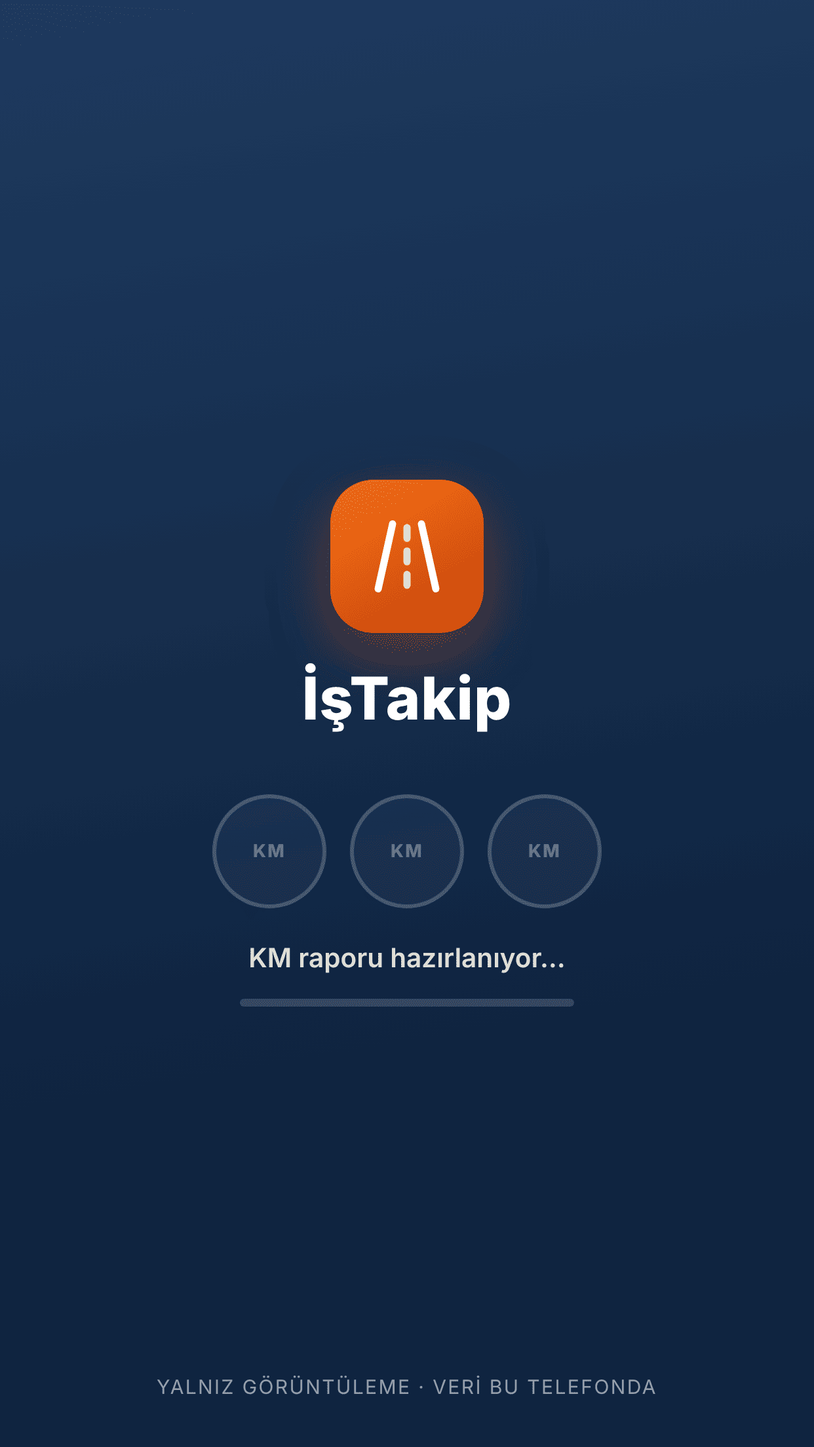
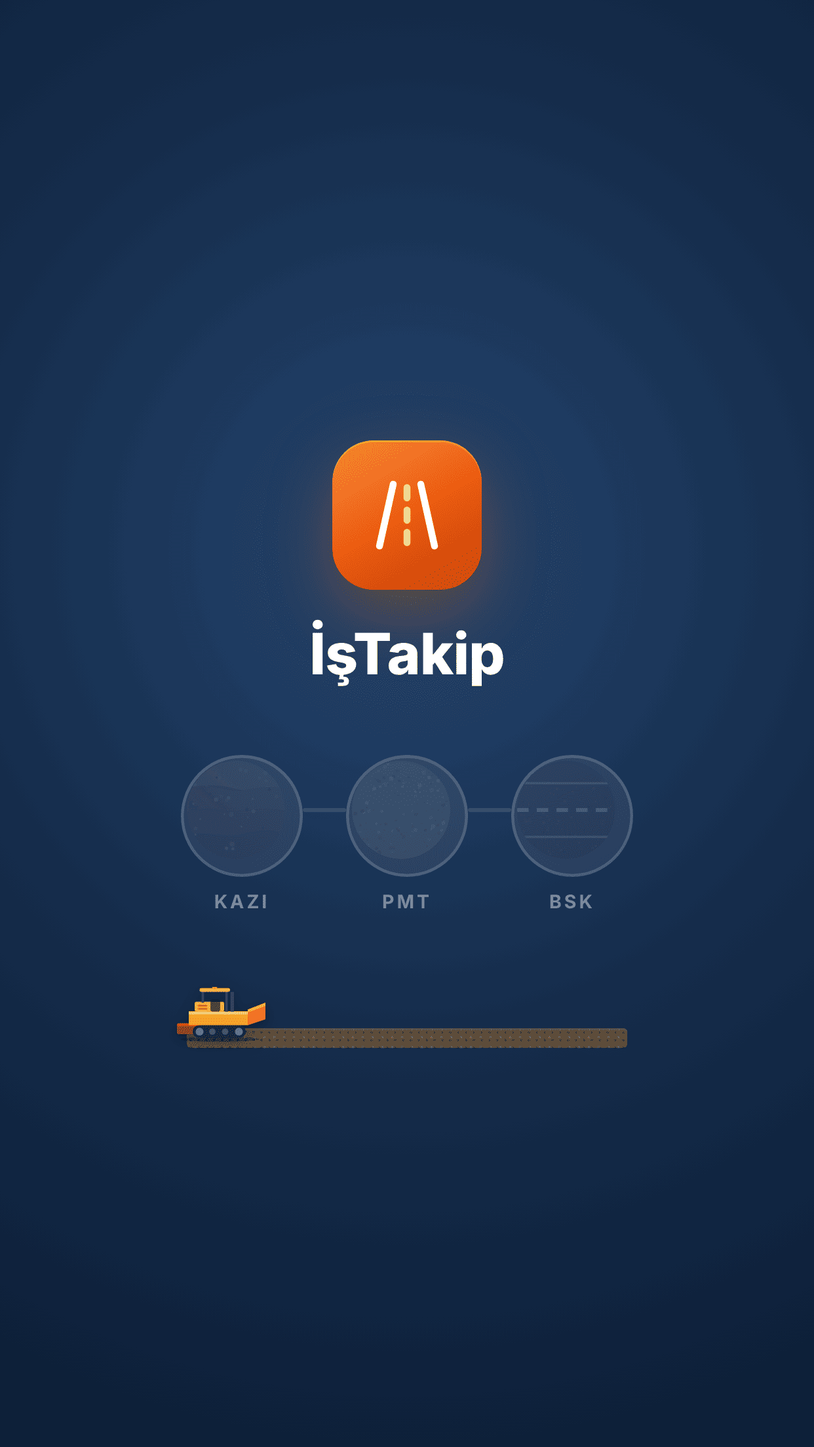
v193: açılış ekranı: finişer yolu asfaltlar, KAZI·PMT·BSK halkaları, en az 2 sn
Claude-Session: https://claude.ai/code/session_019NYnSCe667n7dsMHkU3j1n

diff --git a/index.html b/index.html
@@ -41,21 +41,44 @@
 <link rel="apple-touch-startup-image" media="(device-width: 420px) and (device-height: 912px) and (-webkit-device-pixel-ratio: 3) and (orientation: portrait)" href="acilis/ac-1260x2736.png">
 <link rel="apple-touch-startup-image" media="(device-width: 420px) and (device-height: 912px) and (-webkit-device-pixel-ratio: 3) and (orientation: landscape)" href="acilis/ac-2736x1260.png">
 <style>
-#ac9{ position:fixed; inset:0; z-index:2147483000; display:flex; flex-direction:column; align-items:center; justify-content:center; text-align:center; padding:var(--ac9t,0px) 26px var(--ac9b,0px); background:linear-gradient(170deg,#1e3a5f,#0f2440 70%); color:#fff; font-family:-apple-system,"Segoe UI",Roboto,Arial,sans-serif; transition:opacity .32s ease, transform .32s ease; }
-#ac9.git{ opacity:0; transform:scale(1.04); pointer-events:none; }
-#ac9 .l9{ width:78px; height:78px; border-radius:22px; background:linear-gradient(150deg,#f97316,#c2410c); display:flex; align-items:center; justify-content:center; box-shadow:0 10px 30px rgba(234,88,12,.4); }
-#ac9 h1{ margin:16px 0 0; font-size:30px; font-weight:800; letter-spacing:.01em; }
-#ac9 .r9{ display:flex; gap:12px; margin-top:30px; }
-#ac9 .r9 span{ width:54px; height:54px; border-radius:50%; border:2.5px solid rgba(255,255,255,.2); display:flex; align-items:center; justify-content:center; font-size:9px; font-weight:800; letter-spacing:.08em; color:rgba(255,255,255,.35); background:rgba(255,255,255,.04); }
-#ac9 .t9{ margin-top:18px; font-size:13.5px; font-weight:600; opacity:.85; }
-#ac9 .y9{ width:170px; height:4px; border-radius:2px; background:rgba(255,255,255,.16); margin-top:12px; overflow:hidden; }
-#ac9 .y9 i{ display:block; width:0; height:100%; border-radius:2px; background:#fb923c; }
-#ac9 .n9{ position:absolute; left:0; right:0; bottom:calc(24px + var(--ac9b,0px)); font-size:10px; letter-spacing:.08em; opacity:.55; }
-#ac9.oyna .r9 span{ animation:ac9p 1.1s ease-in-out infinite; } #ac9.oyna .r9 span:nth-child(2){ animation-delay:.18s; } #ac9.oyna .r9 span:nth-child(3){ animation-delay:.36s; }
-#ac9.oyna .y9 i{ animation:ac9y 1s cubic-bezier(.25,.7,.3,1) forwards; }
-#ac9.dol .y9 i{ width:100% !important; animation:none; transition:width .18s ease-out; }
-@keyframes ac9p{ 0%,100%{ border-color:rgba(255,255,255,.2); color:rgba(255,255,255,.35); } 50%{ border-color:rgba(251,146,60,.85); color:rgba(255,255,255,.8); } }
-@keyframes ac9y{ from{ width:0; } to{ width:90%; } }
+#ac9{ position:fixed; inset:0; z-index:2147483000; display:flex; flex-direction:column; align-items:center; justify-content:center; text-align:center; padding:var(--ac9t,0px) 26px var(--ac9b,0px); background:radial-gradient(120% 70% at 50% 38%,#24456f 0%,#152c4b 48%,#0c1d35 100%); color:#fff; font-family:-apple-system,"SF Pro Display","Segoe UI",Roboto,Arial,sans-serif; transition:opacity .35s ease, transform .35s ease; -webkit-font-smoothing:antialiased; }
+#ac9.git{ opacity:0; transform:scale(1.03); pointer-events:none; }
+#ac9 .l9{ width:76px; height:76px; border-radius:21px; background:linear-gradient(150deg,#fb8a3c,#ea580c 55%,#c2410c); display:flex; align-items:center; justify-content:center; box-shadow:0 12px 32px rgba(234,88,12,.35), inset 0 1px 0 rgba(255,255,255,.25); }
+#ac9 h1{ margin:15px 0 0; font-size:29px; font-weight:800; letter-spacing:-.01em; }
+#ac9 .r9{ display:flex; align-items:flex-start; margin-top:34px; }
+#ac9 .k9{ display:flex; flex-direction:column; align-items:center; gap:8px; width:62px; }
+#ac9 .h9{ position:relative; width:56px; height:56px; border-radius:50%; padding:3px; background:rgba(255,255,255,.07); box-shadow:inset 0 0 0 1.5px rgba(255,255,255,.16); transition:box-shadow .35s ease, transform .35s ease; }
+#ac9 .h9 svg{ display:block; width:50px; height:50px; border-radius:50%; opacity:.13; filter:grayscale(1); transition:opacity .45s ease, filter .45s ease; }
+#ac9 .k9 em{ font-style:normal; font-size:9.5px; font-weight:700; letter-spacing:.14em; color:rgba(255,255,255,.42); transition:color .35s; }
+#ac9 .c9{ width:22px; height:2px; margin-top:27px; border-radius:1px; background:rgba(255,255,255,.12); position:relative; overflow:hidden; }
+#ac9 .c9 i{ position:absolute; inset:0; background:#fb923c; transform:scaleX(0); transform-origin:left; }
+#ac9 .y9{ position:relative; width:224px; height:34px; margin-top:34px; }
+#ac9 .y9 .s9{ position:absolute; left:0; right:0; bottom:0; height:10px; border-radius:2px; background:#5d4d39; box-shadow:inset 0 1px 0 rgba(255,255,255,.08); overflow:hidden; }
+#ac9 .y9 .s9::before{ content:""; position:absolute; inset:0; background:radial-gradient(circle,rgba(0,0,0,.25) .6px,transparent .9px) 0 0/4px 4px, radial-gradient(circle,rgba(255,255,255,.12) .5px,transparent .8px) 2px 2px/5px 5px; }
+#ac9 .y9 .a9{ position:absolute; left:0; bottom:0; height:10px; width:0; overflow:hidden; border-radius:2px 0 0 2px; }
+#ac9 .y9 .a9 b{ position:absolute; left:0; top:0; bottom:0; width:224px; background:linear-gradient(#e2e8f0,#e2e8f0) 0 1px/100% 1px no-repeat, linear-gradient(#e2e8f0,#e2e8f0) 0 calc(100% - 1px)/100% 1px no-repeat, repeating-linear-gradient(90deg,#f8fafc 0 7px,transparent 7px 13px) 0 50%/100% 1.6px no-repeat, #24272c; }
+#ac9 .f9{ position:absolute; left:0; bottom:3px; margin-left:-5px; filter:drop-shadow(0 2px 3px rgba(0,0,0,.25)); }
+#ac9 .f9 .d9{ opacity:0; }
+#ac9.oyna .a9{ animation:ac9w 1.8s linear forwards; }
+#ac9.oyna .f9{ animation:ac9l 1.8s linear forwards; }
+#ac9.oyna .f9 .b9{ animation:ac9b .7s steps(2) infinite; }
+#ac9.oyna .f9 .d9{ animation:ac9d 1.1s ease-out infinite; }
+#ac9.oyna .k1 .h9 svg, #ac9.oyna .k2 .h9 svg, #ac9.oyna .k3 .h9 svg{ animation:ac9s .5s ease forwards; }
+#ac9.oyna .k1 .h9, #ac9.oyna .k2 .h9, #ac9.oyna .k3 .h9{ animation:ac9h .5s cubic-bezier(.2,1.4,.4,1) forwards; }
+#ac9.oyna .k1 em, #ac9.oyna .k2 em, #ac9.oyna .k3 em{ animation:ac9e .4s ease forwards; }
+#ac9.oyna .k1 *, #ac9.oyna .k1{ animation-delay:.3s !important; } #ac9.oyna .k2 *, #ac9.oyna .k2{ animation-delay:.9s !important; } #ac9.oyna .k3 *, #ac9.oyna .k3{ animation-delay:1.5s !important; }
+#ac9.oyna .c9 i{ animation:ac9c .45s ease forwards; } #ac9.oyna .c9.c1 i{ animation-delay:.5s; } #ac9.oyna .c9.c2 i{ animation-delay:1.1s; }
+#ac9.oyna .k9 *{ animation-fill-mode:forwards; }
+@keyframes ac9w{ to{ width:100%; } }
+@keyframes ac9l{ 0%{ left:0; opacity:1; } 90%{ opacity:1; } 100%{ left:100%; opacity:0; } }
+@keyframes ac9b{ 50%{ opacity:.25; } }
+@keyframes ac9d{ 0%{ opacity:.55; transform:translate(0,0) scale(.6); } 100%{ opacity:0; transform:translate(-3px,-6px) scale(1.6); } }
+@keyframes ac9s{ to{ opacity:1; filter:none; } }
+@keyframes ac9h{ 0%{ transform:scale(1); } 45%{ transform:scale(1.09); } 100%{ transform:scale(1); box-shadow:inset 0 0 0 2px #fb923c, 0 0 18px rgba(251,146,60,.35); } }
+@keyframes ac9e{ to{ color:rgba(255,255,255,.9); } }
+@keyframes ac9c{ to{ transform:scaleX(1); } }
+#ac9 .f9 .d9{ transform-box:fill-box; transform-origin:center; }
+@media (prefers-reduced-motion: reduce){ #ac9.oyna .f9 .d9, #ac9.oyna .f9 .b9{ animation:none; } }
 @supports (padding: env(safe-area-inset-top)){ #ac9{ --ac9t:env(safe-area-inset-top); --ac9b:env(safe-area-inset-bottom); } }
 </style>
 <style>
@@ -1774,7 +1797,7 @@ html.dark .csb9, html.dark .ys9{ background:rgba(239,68,68,.18); color:#fca5a5; 
 </style>
 </head>
 <body>
-<div id="ac9" class="oyna" aria-hidden="true"><div class="l9"><svg width="44" height="44" viewBox="0 0 24 24" fill="none" stroke="#fff" stroke-width="2" stroke-linecap="round"><path d="M8 3L4 21M16 3l4 18"/><path d="M12 4v3M12 10.5v3M12 17v3" stroke="#fde68a"/></svg></div><h1>İşTakip</h1><div class="r9"><span>KM</span><span>KM</span><span>KM</span></div><div class="t9">KM raporu hazırlanıyor…</div><div class="y9"><i></i></div><div class="n9">YALNIZ GÖRÜNTÜLEME · VERİ BU TELEFONDA</div></div>
+<div id="ac9" class="oyna" aria-hidden="true"><svg width="0" height="0" style="position:absolute"><defs><clipPath id="ac9c"><circle cx="30" cy="30" r="30"/></clipPath></defs></svg><div class="l9"><svg width="42" height="42" viewBox="0 0 24 24" fill="none" stroke="#fff" stroke-width="2" stroke-linecap="round"><path d="M8 3L4 21M16 3l4 18"/><path d="M12 4v3M12 10.5v3M12 17v3" stroke="#fde68a"/></svg></div><h1>İşTakip</h1><div class="r9"><div class="k9 k1"><span class="h9"><svg viewBox="0 0 60 60"><g clip-path="url(#ac9c)"><rect width="60" height="60" fill="#6e4126"/><path d="M0 0H60V17C50 15 44 20 34 18S16 13 0 17Z" fill="#9a6338"/><path d="M0 17C16 13 24 20 34 18S50 15 60 17V31C48 28 40 34 28 31S10 28 0 32Z" fill="#82502d"/><path d="M0 46C12 42 22 48 34 45S50 42 60 45V60H0Z" fill="#573219"/><path d="M0 32C10 28 18 31 28 31S48 28 60 31" stroke="#5e351c" stroke-width=".8" fill="none" opacity=".7"/><path d="M0 46C12 42 22 48 34 45S50 42 60 45" stroke="#3f2412" stroke-width=".8" fill="none" opacity=".7"/><circle cx="20.1" cy="10.4" r="1.22" fill="#b07d52"/><circle cx="48.0" cy="7.3" r="1.14" fill="#c08b5c"/><circle cx="4.1" cy="26.3" r="0.58" fill="#b07d52"/><circle cx="32.9" cy="5.3" r="1.12" fill="#c08b5c"/><circle cx="37.3" cy="34.6" r="0.57" fill="#8d6a4b"/><circle cx="4.8" cy="14.4" r="1.11" fill="#c08b5c"/><circle cx="18.2" cy="10.1" r="0.63" fill="#4a2a15"/><circle cx="33.4" cy="40.2" r="0.61" fill="#c08b5c"/><circle cx="22.9" cy="32.7" r="0.57" fill="#b07d52"/><circle cx="36.7" cy="29.8" r="1.08" fill="#4a2a15"/><circle cx="28.1" cy="53.7" r="0.90" fill="#c08b5c"/><circle cx="46.5" cy="41.1" r="0.77" fill="#4a2a15"/><circle cx="31.4" cy="51.0" r="1.30" fill="#4a2a15"/><circle cx="36.1" cy="6.1" r="1.06" fill="#c08b5c"/><circle cx="44.4" cy="10.5" r="1.04" fill="#b07d52"/><circle cx="55.9" cy="6.3" r="1.11" fill="#4a2a15"/><circle cx="21.0" cy="21.6" r="1.05" fill="#8d6a4b"/><circle cx="5.9" cy="7.2" r="0.80" fill="#b07d52"/><circle cx="5.4" cy="41.3" r="1.21" fill="#8d6a4b"/><circle cx="17.9" cy="23.6" r="1.24" fill="#b07d52"/><circle cx="54.7" cy="21.9" r="1.17" fill="#8d6a4b"/><circle cx="5.3" cy="45.0" r="0.64" fill="#c08b5c"/><circle cx="24.3" cy="53.3" r="1.05" fill="#c08b5c"/><circle cx="27.2" cy="32.8" r="1.47" fill="#8d6a4b"/><circle cx="50.4" cy="17.6" r="0.96" fill="#4a2a15"/><circle cx="40.2" cy="23.3" r="0.75" fill="#b07d52"/><circle cx="11.9" cy="15.0" r="0.76" fill="#8d6a4b"/><circle cx="48.5" cy="12.2" r="0.81" fill="#c08b5c"/><circle cx="25.5" cy="22.7" r="1.12" fill="#c08b5c"/><circle cx="40.7" cy="30.9" r="1.18" fill="#b07d52"/><circle cx="27.6" cy="50.8" r="1.55" fill="#8d6a4b"/><circle cx="24.3" cy="24.1" r="1.03" fill="#8d6a4b"/><circle cx="5.5" cy="5.8" r="0.73" fill="#c08b5c"/><circle cx="8.2" cy="35.6" r="0.61" fill="#c08b5c"/></g></svg></span><em>KAZI</em></div><span class="c9 c1"><i></i></span><div class="k9 k2"><span class="h9"><svg viewBox="0 0 60 60"><g clip-path="url(#ac9c)"><rect width="60" height="60" fill="#a68a63"/><circle cx="32.1" cy="55.1" r="0.97" fill="#8a7050"/><circle cx="51.0" cy="36.4" r="0.58" fill="#6f5a3d"/><circle cx="55.5" cy="35.7" r="0.85" fill="#8a7050"/><circle cx="49.5" cy="57.6" r="0.85" fill="#d8c4a0"/><circle cx="19.5" cy="10.1" r="1.09" fill="#6f5a3d"/><circle cx="28.8" cy="40.8" r="0.89" fill="#c4ab84"/><circle cx="55.3" cy="31.6" r="0.57" fill="#7b6547"/><circle cx="53.2" cy="44.5" r="0.70" fill="#8a7050"/><circle cx="41.0" cy="16.6" r="0.76" fill="#c4ab84"/><circle cx="21.9" cy="14.5" r="0.91" fill="#7b6547"/><circle cx="20.5" cy="14.5" r="1.14" fill="#c4ab84"/><circle cx="47.1" cy="47.8" r="1.08" fill="#c4ab84"/><circle cx="13.2" cy="29.6" r="1.07" fill="#8a7050"/><circle cx="46.2" cy="28.4" r="0.61" fill="#7b6547"/><circle cx="55.6" cy="27.0" r="1.25" fill="#6f5a3d"/><circle cx="55.5" cy="22.4" r="0.64" fill="#c4ab84"/><circle cx="28.3" cy="20.9" r="0.86" fill="#7b6547"/><circle cx="49.1" cy="28.9" r="1.01" fill="#8a7050"/><circle cx="48.7" cy="8.7" r="0.78" fill="#c4ab84"/><circle cx="28.8" cy="12.0" r="1.12" fill="#6f5a3d"/><circle cx="6.9" cy="55.0" r="1.06" fill="#d8c4a0"/><circle cx="24.5" cy="55.0" r="1.07" fill="#c4ab84"/><circle cx="57.6" cy="3.5" r="0.95" fill="#d8c4a0"/><circle cx="47.2" cy="10.2" r="1.15" fill="#d8c4a0"/><circle cx="38.8" cy="21.6" r="0.92" fill="#c4ab84"/><circle cx="3.2" cy="46.8" r="1.07" fill="#8a7050"/><circle cx="31.5" cy="54.3" r="0.82" fill="#c4ab84"/><circle cx="48.3" cy="13.8" r="0.66" fill="#6f5a3d"/><circle cx="30.1" cy="44.8" r="0.73" fill="#7b6547"/><circle cx="25.5" cy="9.3" r="1.22" fill="#6f5a3d"/><circle cx="52.3" cy="39.1" r="1.14" fill="#7b6547"/><circle cx="25.6" cy="53.4" r="0.88" fill="#7b6547"/><circle cx="10.5" cy="30.6" r="1.19" fill="#c4ab84"/><circle cx="36.1" cy="45.5" r="0.58" fill="#c4ab84"/><circle cx="28.5" cy="42.6" r="0.92" fill="#6f5a3d"/><circle cx="40.2" cy="31.7" r="0.86" fill="#8a7050"/><circle cx="51.5" cy="5.2" r="0.61" fill="#8a7050"/><circle cx="45.2" cy="30.4" r="0.93" fill="#8a7050"/><circle cx="26.8" cy="36.3" r="0.88" fill="#7b6547"/><circle cx="13.2" cy="17.5" r="0.88" fill="#d8c4a0"/><circle cx="30.4" cy="15.9" r="0.89" fill="#6f5a3d"/><circle cx="53.7" cy="52.0" r="0.62" fill="#d8c4a0"/><circle cx="9.7" cy="8.8" r="0.83" fill="#8a7050"/><circle cx="39.6" cy="26.0" r="0.63" fill="#6f5a3d"/><circle cx="45.9" cy="52.2" r="0.58" fill="#6f5a3d"/><circle cx="10.0" cy="51.4" r="1.27" fill="#c4ab84"/><circle cx="43.8" cy="7.3" r="1.20" fill="#c4ab84"/><circle cx="57.4" cy="48.6" r="0.59" fill="#d8c4a0"/><circle cx="57.7" cy="24.6" r="0.81" fill="#6f5a3d"/><circle cx="19.8" cy="42.4" r="0.47" fill="#7b6547"/><circle cx="27.7" cy="41.4" r="0.78" fill="#7b6547"/><circle cx="36.9" cy="30.7" r="0.50" fill="#c4ab84"/><circle cx="56.4" cy="7.9" r="0.68" fill="#8a7050"/><circle cx="52.7" cy="12.2" r="1.09" fill="#d8c4a0"/><circle cx="49.6" cy="39.9" r="1.25" fill="#d8c4a0"/><circle cx="10.4" cy="53.5" r="0.94" fill="#6f5a3d"/><circle cx="7.0" cy="5.2" r="1.03" fill="#d8c4a0"/><circle cx="52.1" cy="17.1" r="0.46" fill="#8a7050"/><circle cx="46.9" cy="6.7" r="1.18" fill="#8a7050"/><circle cx="16.8" cy="8.8" r="0.46" fill="#7b6547"/><circle cx="25.4" cy="53.3" r="0.98" fill="#8a7050"/><circle cx="31.5" cy="15.4" r="0.54" fill="#c4ab84"/><circle cx="16.7" cy="12.1" r="1.24" fill="#6f5a3d"/><circle cx="31.7" cy="13.5" r="0.83" fill="#c4ab84"/><circle cx="17.1" cy="47.0" r="1.30" fill="#8a7050"/><circle cx="2.9" cy="43.1" r="0.92" fill="#c4ab84"/><circle cx="30.8" cy="15.8" r="0.83" fill="#d8c4a0"/><circle cx="38.8" cy="32.6" r="1.21" fill="#7b6547"/><circle cx="19.2" cy="14.1" r="0.65" fill="#c4ab84"/><circle cx="48.6" cy="41.6" r="0.99" fill="#d8c4a0"/><circle cx="57.4" cy="57.0" r="1.16" fill="#8a7050"/><circle cx="6.0" cy="43.5" r="0.67" fill="#c4ab84"/><circle cx="5.1" cy="39.3" r="0.77" fill="#7b6547"/><circle cx="39.6" cy="17.8" r="0.66" fill="#6f5a3d"/><circle cx="4.5" cy="12.4" r="0.68" fill="#8a7050"/><circle cx="16.7" cy="55.9" r="1.28" fill="#7b6547"/><circle cx="20.1" cy="3.9" r="1.20" fill="#c4ab84"/><circle cx="22.0" cy="2.1" r="0.77" fill="#d8c4a0"/><circle cx="17.6" cy="38.7" r="0.66" fill="#8a7050"/><circle cx="7.1" cy="47.8" r="0.57" fill="#7b6547"/><circle cx="4.3" cy="3.3" r="0.71" fill="#c4ab84"/><circle cx="6.7" cy="55.6" r="1.18" fill="#c4ab84"/><circle cx="38.8" cy="42.1" r="1.20" fill="#d8c4a0"/><circle cx="44.8" cy="42.4" r="0.87" fill="#6f5a3d"/><circle cx="42.6" cy="38.0" r="0.49" fill="#7b6547"/><circle cx="37.1" cy="43.1" r="1.14" fill="#c4ab84"/><circle cx="53.0" cy="44.2" r="0.93" fill="#8a7050"/><circle cx="48.3" cy="34.7" r="1.21" fill="#c4ab84"/><circle cx="6.8" cy="4.3" r="0.99" fill="#8a7050"/><circle cx="23.1" cy="27.3" r="0.49" fill="#8a7050"/><circle cx="37.1" cy="40.1" r="0.87" fill="#8a7050"/><circle cx="27.6" cy="5.9" r="1.24" fill="#7b6547"/><circle cx="7.1" cy="31.5" r="1.08" fill="#d8c4a0"/><circle cx="16.1" cy="6.2" r="0.68" fill="#c4ab84"/><circle cx="14.9" cy="38.4" r="0.84" fill="#d8c4a0"/><circle cx="6.3" cy="53.0" r="0.69" fill="#8a7050"/><circle cx="36.6" cy="38.0" r="0.52" fill="#c4ab84"/><circle cx="20.6" cy="38.5" r="1.04" fill="#7b6547"/><circle cx="33.8" cy="2.7" r="0.50" fill="#6f5a3d"/><circle cx="56.5" cy="7.6" r="0.64" fill="#d8c4a0"/><circle cx="18.3" cy="30.9" r="0.84" fill="#d8c4a0"/><circle cx="45.0" cy="57.6" r="0.92" fill="#6f5a3d"/><circle cx="56.8" cy="54.4" r="0.46" fill="#d8c4a0"/><circle cx="6.3" cy="30.4" r="1.30" fill="#6f5a3d"/><circle cx="23.7" cy="53.3" r="1.24" fill="#8a7050"/><circle cx="34.6" cy="9.9" r="0.90" fill="#6f5a3d"/><circle cx="9.4" cy="47.9" r="0.88" fill="#8a7050"/><circle cx="41.4" cy="15.0" r="1.21" fill="#d8c4a0"/><circle cx="24.1" cy="10.9" r="1.26" fill="#d8c4a0"/><circle cx="24.7" cy="42.7" r="0.80" fill="#d8c4a0"/><circle cx="19.7" cy="49.1" r="0.45" fill="#6f5a3d"/><circle cx="49.0" cy="8.7" r="1.24" fill="#8a7050"/><circle cx="52.5" cy="18.2" r="0.77" fill="#d8c4a0"/><circle cx="23.8" cy="50.7" r="0.51" fill="#d8c4a0"/><circle cx="44.3" cy="49.8" r="0.69" fill="#8a7050"/><circle cx="48.7" cy="18.0" r="1.25" fill="#c4ab84"/><circle cx="56.4" cy="26.4" r="0.72" fill="#6f5a3d"/><circle cx="46.0" cy="26.0" r="0.47" fill="#d8c4a0"/><circle cx="53.2" cy="54.7" r="0.92" fill="#8a7050"/><circle cx="4.8" cy="43.0" r="0.83" fill="#c4ab84"/><circle cx="38.1" cy="18.0" r="0.49" fill="#7b6547"/><circle cx="9.1" cy="28.4" r="0.74" fill="#6f5a3d"/><circle cx="16.3" cy="43.4" r="1.00" fill="#d8c4a0"/><circle cx="38.7" cy="18.8" r="0.92" fill="#d8c4a0"/><circle cx="8.7" cy="38.0" r="0.51" fill="#7b6547"/><circle cx="52.7" cy="29.8" r="0.64" fill="#6f5a3d"/><circle cx="57.8" cy="27.2" r="0.57" fill="#c4ab84"/><circle cx="15.7" cy="11.8" r="0.92" fill="#6f5a3d"/><circle cx="15.4" cy="16.5" r="0.93" fill="#8a7050"/><circle cx="44.0" cy="25.1" r="0.80" fill="#7b6547"/><circle cx="13.8" cy="17.1" r="1.09" fill="#d8c4a0"/><circle cx="17.5" cy="56.2" r="0.56" fill="#7b6547"/><circle cx="31.6" cy="46.3" r="1.17" fill="#8a7050"/><circle cx="17.2" cy="15.9" r="0.79" fill="#d8c4a0"/><circle cx="26.2" cy="19.5" r="1.14" fill="#8a7050"/><circle cx="9.1" cy="25.8" r="1.10" fill="#d8c4a0"/><circle cx="56.2" cy="29.4" r="0.51" fill="#7b6547"/><circle cx="49.9" cy="56.4" r="0.66" fill="#8a7050"/><circle cx="14.5" cy="10.5" r="1.28" fill="#8a7050"/><circle cx="54.7" cy="42.4" r="1.00" fill="#d8c4a0"/><circle cx="6.8" cy="45.5" r="0.45" fill="#c4ab84"/><circle cx="15.0" cy="53.5" r="1.00" fill="#6f5a3d"/><circle cx="55.9" cy="37.1" r="0.90" fill="#d8c4a0"/><circle cx="41.1" cy="8.3" r="0.51" fill="#7b6547"/><circle cx="54.8" cy="12.7" r="0.67" fill="#7b6547"/><circle cx="2.1" cy="32.1" r="1.30" fill="#6f5a3d"/><circle cx="55.7" cy="38.1" r="1.20" fill="#d8c4a0"/><circle cx="31.5" cy="32.6" r="0.47" fill="#d8c4a0"/><circle cx="41.5" cy="19.2" r="0.47" fill="#d8c4a0"/><circle cx="51.6" cy="38.2" r="0.52" fill="#c4ab84"/></g></svg></span><em>PMT</em></div><span class="c9 c2"><i></i></span><div class="k9 k3"><span class="h9"><svg viewBox="0 0 60 60"><g clip-path="url(#ac9c)"><rect width="60" height="60" fill="#25282d"/><circle cx="39.4" cy="53.8" r="0.41" fill="#3b3f46"/><circle cx="41.0" cy="42.2" r="0.48" fill="#17191c"/><circle cx="13.1" cy="46.6" r="0.67" fill="#4a4e55"/><circle cx="5.8" cy="29.8" r="0.40" fill="#3b3f46"/><circle cx="14.9" cy="14.4" r="0.68" fill="#17191c"/><circle cx="8.1" cy="36.9" r="0.61" fill="#3b3f46"/><circle cx="29.2" cy="53.0" r="0.33" fill="#4a4e55"/><circle cx="10.2" cy="24.0" r="0.41" fill="#4a4e55"/><circle cx="9.9" cy="4.9" r="0.33" fill="#17191c"/><circle cx="27.2" cy="41.9" r="0.46" fill="#3b3f46"/><circle cx="57.9" cy="54.2" r="0.46" fill="#3b3f46"/><circle cx="38.5" cy="31.4" r="0.53" fill="#17191c"/><circle cx="39.2" cy="23.2" r="0.49" fill="#17191c"/><circle cx="26.8" cy="8.1" r="0.34" fill="#3b3f46"/><circle cx="21.7" cy="55.5" r="0.36" fill="#3b3f46"/><circle cx="23.3" cy="45.0" r="0.45" fill="#17191c"/><circle cx="6.9" cy="41.5" r="0.40" fill="#4a4e55"/><circle cx="53.5" cy="12.8" r="0.48" fill="#17191c"/><circle cx="3.7" cy="25.0" r="0.71" fill="#17191c"/><circle cx="4.3" cy="4.0" r="0.33" fill="#3b3f46"/><circle cx="16.4" cy="43.8" r="0.75" fill="#17191c"/><circle cx="22.3" cy="20.8" r="0.78" fill="#3b3f46"/><circle cx="16.7" cy="42.1" r="0.46" fill="#17191c"/><circle cx="18.7" cy="42.4" r="0.60" fill="#4a4e55"/><circle cx="55.0" cy="5.7" r="0.71" fill="#3b3f46"/><circle cx="28.6" cy="55.6" r="0.78" fill="#17191c"/><circle cx="46.2" cy="53.2" r="0.71" fill="#3b3f46"/><circle cx="54.0" cy="12.2" r="0.70" fill="#4a4e55"/><circle cx="19.0" cy="40.8" r="0.38" fill="#3b3f46"/><circle cx="20.4" cy="19.9" r="0.48" fill="#4a4e55"/><circle cx="6.4" cy="13.0" r="0.68" fill="#3b3f46"/><circle cx="24.8" cy="38.4" r="0.54" fill="#4a4e55"/><circle cx="20.2" cy="56.9" r="0.74" fill="#3b3f46"/><circle cx="16.8" cy="6.7" r="0.35" fill="#17191c"/><circle cx="57.4" cy="56.4" r="0.39" fill="#3b3f46"/><circle cx="25.3" cy="36.7" r="0.64" fill="#4a4e55"/><circle cx="32.2" cy="45.3" r="0.68" fill="#17191c"/><circle cx="18.5" cy="33.7" r="0.49" fill="#4a4e55"/><circle cx="16.6" cy="26.6" r="0.39" fill="#3b3f46"/><circle cx="10.6" cy="51.5" r="0.59" fill="#17191c"/><circle cx="5.6" cy="16.1" r="0.42" fill="#4a4e55"/><circle cx="15.0" cy="47.3" r="0.63" fill="#3b3f46"/><circle cx="7.7" cy="28.6" r="0.71" fill="#17191c"/><circle cx="53.2" cy="4.3" r="0.45" fill="#3b3f46"/><circle cx="4.8" cy="35.6" r="0.71" fill="#3b3f46"/><circle cx="54.1" cy="22.8" r="0.73" fill="#17191c"/><circle cx="35.8" cy="45.4" r="0.63" fill="#3b3f46"/><circle cx="7.9" cy="35.4" r="0.61" fill="#3b3f46"/><circle cx="4.1" cy="21.0" r="0.32" fill="#17191c"/><circle cx="4.1" cy="43.0" r="0.76" fill="#3b3f46"/><circle cx="47.9" cy="24.9" r="0.49" fill="#4a4e55"/><circle cx="19.5" cy="13.4" r="0.70" fill="#4a4e55"/><circle cx="29.1" cy="24.9" r="0.70" fill="#4a4e55"/><circle cx="32.8" cy="37.8" r="0.35" fill="#3b3f46"/><circle cx="24.3" cy="17.2" r="0.79" fill="#4a4e55"/><circle cx="19.2" cy="55.4" r="0.46" fill="#4a4e55"/><circle cx="51.5" cy="25.2" r="0.31" fill="#17191c"/><circle cx="38.1" cy="23.9" r="0.50" fill="#3b3f46"/><circle cx="26.3" cy="10.8" r="0.36" fill="#3b3f46"/><circle cx="24.7" cy="51.4" r="0.53" fill="#3b3f46"/><circle cx="9.3" cy="4.9" r="0.37" fill="#17191c"/><circle cx="7.0" cy="36.8" r="0.49" fill="#4a4e55"/><circle cx="11.6" cy="21.5" r="0.38" fill="#3b3f46"/><circle cx="53.8" cy="8.1" r="0.55" fill="#3b3f46"/><circle cx="18.9" cy="48.9" r="0.32" fill="#17191c"/><circle cx="19.6" cy="36.0" r="0.62" fill="#3b3f46"/><circle cx="52.6" cy="36.7" r="0.71" fill="#3b3f46"/><circle cx="37.9" cy="50.0" r="0.61" fill="#4a4e55"/><circle cx="49.4" cy="48.4" r="0.39" fill="#3b3f46"/><circle cx="4.3" cy="54.6" r="0.38" fill="#17191c"/><circle cx="8.9" cy="15.8" r="0.66" fill="#3b3f46"/><circle cx="4.3" cy="33.5" r="0.68" fill="#3b3f46"/><circle cx="39.4" cy="20.2" r="0.49" fill="#17191c"/><circle cx="32.8" cy="37.1" r="0.45" fill="#17191c"/><circle cx="19.3" cy="16.0" r="0.49" fill="#17191c"/><circle cx="27.0" cy="26.5" r="0.31" fill="#4a4e55"/><circle cx="57.2" cy="28.1" r="0.52" fill="#4a4e55"/><circle cx="45.7" cy="27.7" r="0.39" fill="#17191c"/><circle cx="24.4" cy="5.8" r="0.48" fill="#17191c"/><circle cx="7.1" cy="26.8" r="0.56" fill="#3b3f46"/><circle cx="4.3" cy="9.3" r="0.76" fill="#17191c"/><circle cx="45.5" cy="30.6" r="0.33" fill="#4a4e55"/><circle cx="52.1" cy="38.6" r="0.69" fill="#3b3f46"/><circle cx="50.0" cy="57.8" r="0.67" fill="#3b3f46"/><circle cx="12.8" cy="57.0" r="0.55" fill="#3b3f46"/><circle cx="40.4" cy="42.4" r="0.41" fill="#17191c"/><circle cx="36.2" cy="16.1" r="0.46" fill="#4a4e55"/><circle cx="17.4" cy="47.7" r="0.37" fill="#4a4e55"/><circle cx="56.0" cy="28.9" r="0.60" fill="#4a4e55"/><circle cx="30.3" cy="19.9" r="0.32" fill="#3b3f46"/><circle cx="24.6" cy="37.6" r="0.44" fill="#17191c"/><circle cx="52.1" cy="11.4" r="0.69" fill="#3b3f46"/><circle cx="45.0" cy="4.7" r="0.73" fill="#17191c"/><circle cx="33.1" cy="34.5" r="0.74" fill="#3b3f46"/><circle cx="16.1" cy="32.0" r="0.73" fill="#4a4e55"/><circle cx="46.7" cy="16.8" r="0.80" fill="#4a4e55"/><circle cx="10.2" cy="20.5" r="0.34" fill="#3b3f46"/><circle cx="11.9" cy="43.6" r="0.32" fill="#4a4e55"/><circle cx="16.2" cy="37.8" r="0.79" fill="#4a4e55"/><circle cx="54.0" cy="52.2" r="0.67" fill="#4a4e55"/><circle cx="3.9" cy="10.4" r="0.61" fill="#17191c"/><circle cx="25.4" cy="22.4" r="0.32" fill="#17191c"/><circle cx="14.7" cy="38.6" r="0.31" fill="#3b3f46"/><circle cx="33.8" cy="19.0" r="0.56" fill="#4a4e55"/><circle cx="14.6" cy="34.7" r="0.59" fill="#3b3f46"/><circle cx="22.5" cy="48.4" r="0.38" fill="#3b3f46"/><circle cx="54.4" cy="15.6" r="0.37" fill="#3b3f46"/><circle cx="5.6" cy="10.1" r="0.63" fill="#17191c"/><circle cx="24.5" cy="16.8" r="0.31" fill="#4a4e55"/><circle cx="48.0" cy="52.0" r="0.60" fill="#4a4e55"/><circle cx="26.9" cy="54.5" r="0.67" fill="#3b3f46"/><circle cx="11.2" cy="2.0" r="0.33" fill="#3b3f46"/><circle cx="24.7" cy="15.3" r="0.33" fill="#3b3f46"/><circle cx="2.7" cy="32.9" r="0.77" fill="#3b3f46"/><circle cx="25.1" cy="31.0" r="0.62" fill="#4a4e55"/><circle cx="37.9" cy="47.5" r="0.39" fill="#17191c"/><circle cx="5.6" cy="37.1" r="0.80" fill="#4a4e55"/><circle cx="45.8" cy="42.1" r="0.30" fill="#17191c"/><circle cx="43.7" cy="28.1" r="0.67" fill="#17191c"/><circle cx="11.8" cy="57.8" r="0.43" fill="#4a4e55"/><rect y="13" width="60" height="1.3" fill="#e2e8f0" opacity=".85"/><rect y="45.7" width="60" height="1.3" fill="#e2e8f0" opacity=".85"/><path d="M0 30H60" stroke="#f8fafc" stroke-width="2.4" stroke-dasharray="7 5"/></g></svg></span><em>BSK</em></div></div><div class="y9"><div class="s9"></div><div class="a9"><b></b></div><svg class="f9" viewBox="0 0 46 28" width="46" height="28" aria-hidden="true"><ellipse cx="22" cy="26.6" rx="20" ry="1.4" fill="#000" opacity=".28"/><rect x="0" y="18.5" width="11" height="5.5" rx="1" fill="#9a3412"/><rect x="0" y="18.5" width="11" height="1.6" rx=".8" fill="#c2410c"/><rect x="8" y="19.5" width="27" height="6.5" rx="3.25" fill="#1e293b"/><circle cx="11.5" cy="22.75" r="2" fill="#64748b"/><circle cx="18" cy="22.75" r="1.6" fill="#475569"/><circle cx="24.5" cy="22.75" r="1.6" fill="#475569"/><circle cx="31.5" cy="22.75" r="2" fill="#64748b"/><path d="M6 12.5h30v7H6z" fill="#f59e0b"/><path d="M6 12.5h30v1.6H6z" fill="#fcd34d"/><path d="M36 11.5l9-3.5v8.5l-9 3z" fill="#d97706"/><path d="M36 11.5l9-3.5v1.6l-9 3.3z" fill="#fbbf24"/><rect x="9" y="7.5" width="15" height="5" rx="1" fill="#fbbf24"/><rect x="10.5" y="9" width="5" height="1" rx=".5" fill="#92400e" opacity=".6"/><rect x="10.5" y="10.6" width="5" height="1" rx=".5" fill="#92400e" opacity=".6"/><rect x="27.2" y="2.5" width="1.8" height="10" fill="#334155"/><rect x="12.5" y="1.6" width="1.3" height="6.5" fill="#334155"/><rect x="24.6" y="1.6" width="1.3" height="11" fill="#334155"/><rect x="11.5" y=".6" width="15.5" height="1.9" rx=".9" fill="#fbbf24"/><rect x="17" y="6.5" width="5" height="6" rx="1" fill="#0f172a" opacity=".75"/><circle class="b9" cx="19.2" cy="-.2" r="1.3" fill="#fb923c"/><circle class="d9" cx="28.1" cy="1" r="1.6" fill="#cbd5e1"/></svg></div></div>
 <div id="app"><main id="main"><div class="hos" id="acilis"><div class="hos-logo"><svg width="40" height="40" viewBox="0 0 24 24" fill="none" stroke="#fff" stroke-width="2" stroke-linecap="round"><path d="M8 3L4 21M16 3l4 18"/><path d="M12 4v3M12 10.5v3M12 17v3" stroke="#fde68a"/></svg></div><h1>İşTakip</h1><div class="hos-alt" data-kurum></div><div class="acil-y"><i></i></div><div class="alt-not">YALNIZ GÖRÜNTÜLEME · VERİ BU TELEFONDA</div></div></main><nav class="tabs" id="tabs" style="display:none"></nav></div>
 <script>
 "use strict";
@@ -11679,7 +11702,7 @@ document.addEventListener("click", e => {
 }, true);
 </script>
 <script>
-// v192: açılış ekranı en az 1 sn görünür, uygulama hazır olunca kaybolur; bu haftanın km daireleri sayarak gelir
+// v193: açılış ekranı en az 2 sn görünür (finişer yolu asfaltlar, KAZI · PMT · BSK halkaları dolar), uygulama hazır olunca kaybolur; bu haftanın km daireleri sayarak gelir
 (() => {
   const el = document.getElementById("ac9"); if(!el) return;
   let bitti = false, t0 = Date.now();
@@ -11694,7 +11717,7 @@ document.addEventListener("click", e => {
   };
   const bitir = () => {
     if(bitti) return; bitti = true;
-    const kal = Math.max(0, 1000 - performance.now());
+    const kal = Math.max(0, 2000 - performance.now());
     setTimeout(() => { el.classList.add("dol"); setTimeout(() => { el.classList.add("git"); try{ kmSay(); }catch(_){} setTimeout(() => el.remove(), 360); }, 200); }, kal);
   };
   // uygulama ilk ekranını çizene kadar bekle (en çok 6 sn)

diff --git a/sw.js b/sw.js
@@ -2,7 +2,7 @@
 // Açılış hızlı olsun diye uygulama dosyaları ÖNCE ÖNBELLEKTEN verilir (internet beklenmez).
 // Yeni sürüm (bu dosyadaki SURUM değişince) arka planda indirilir; hazır olunca
 // sayfa "Yeni sürüm yüklendi" notunu gösterir.
-const SURUM = "istakip-mobil-v192";
+const SURUM = "istakip-mobil-v193";
 const DOSYALAR = ["./", "index.html", "manifest.json", "leaflet.js", "leaflet.css", "ikon-180.png", "ikon-192.png", "ikon-512.png", "jspdf.min.js", "DejaVuSans-tr.ttf", "DejaVuSans-Bold-tr.ttf", "maplibre-gl.js", "maplibre-gl.css", "leaflet-rotate.js", "pdf.min.js", "pdf.worker.min.js", "iti-cizim.html"];
 self.addEventListener("install", e => {
   // tarayıcının HTTP önbelleği atlanır: yeni sürümün dosyaları gerçekten yeni gelsin
